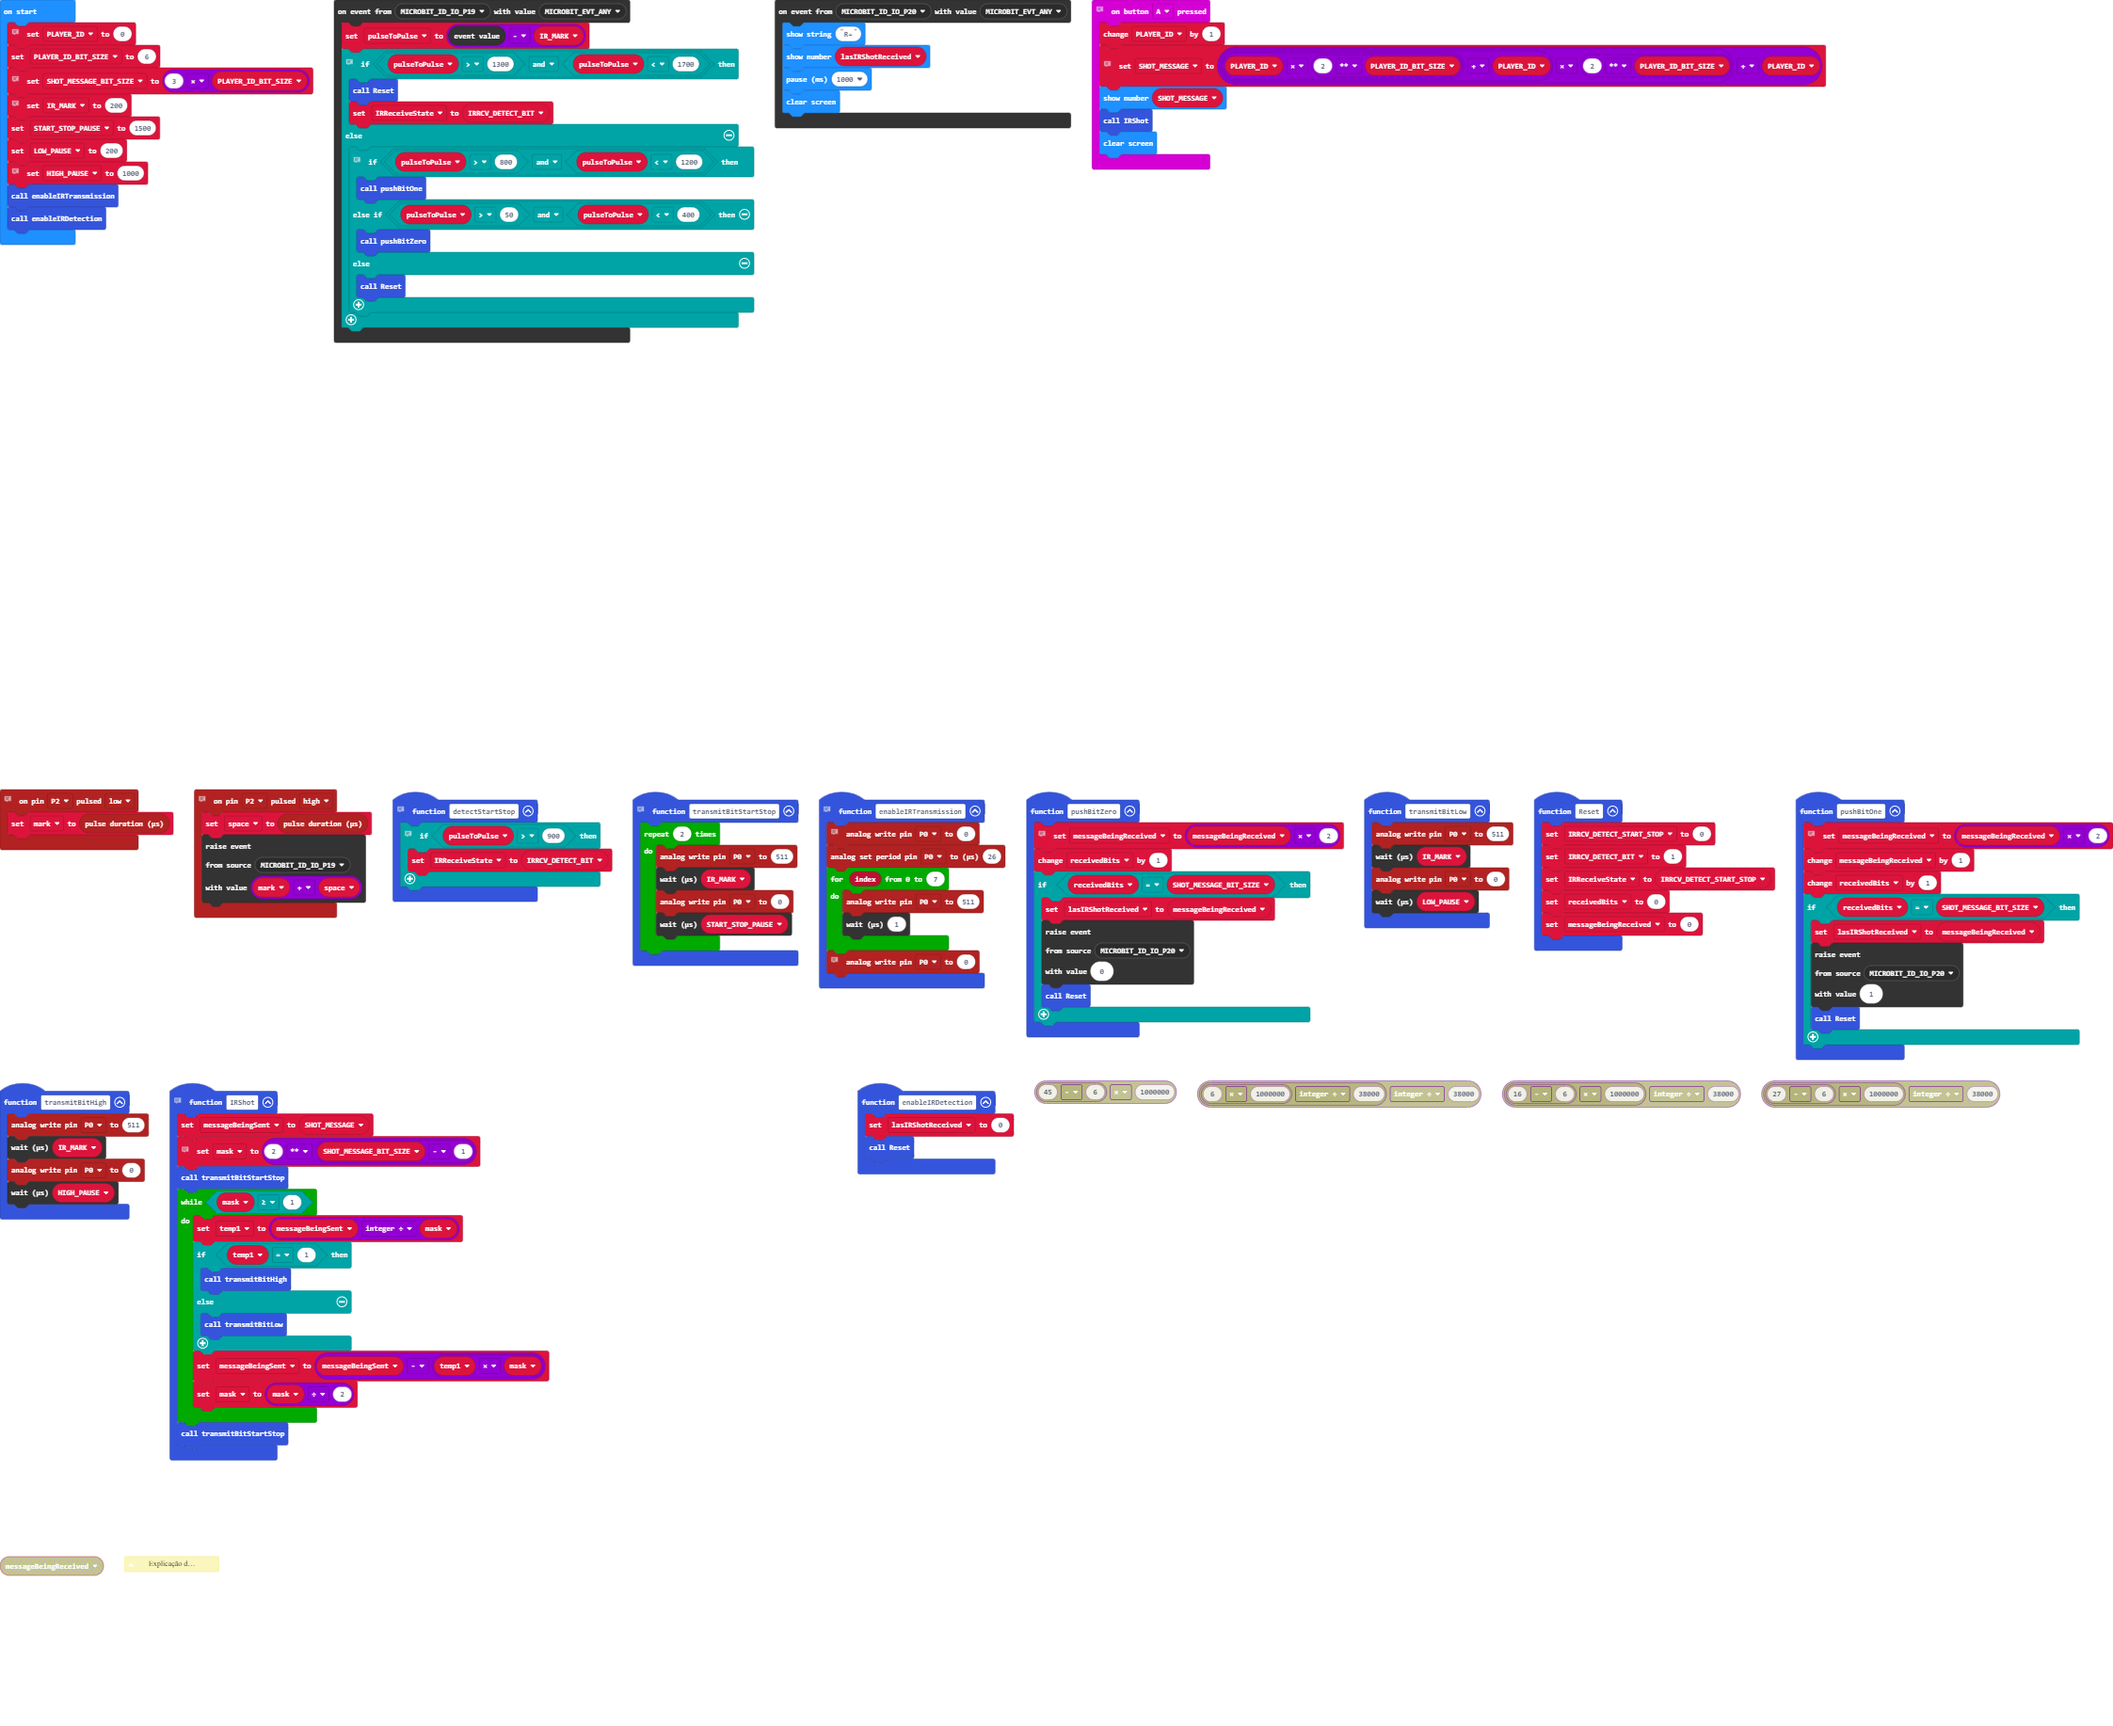
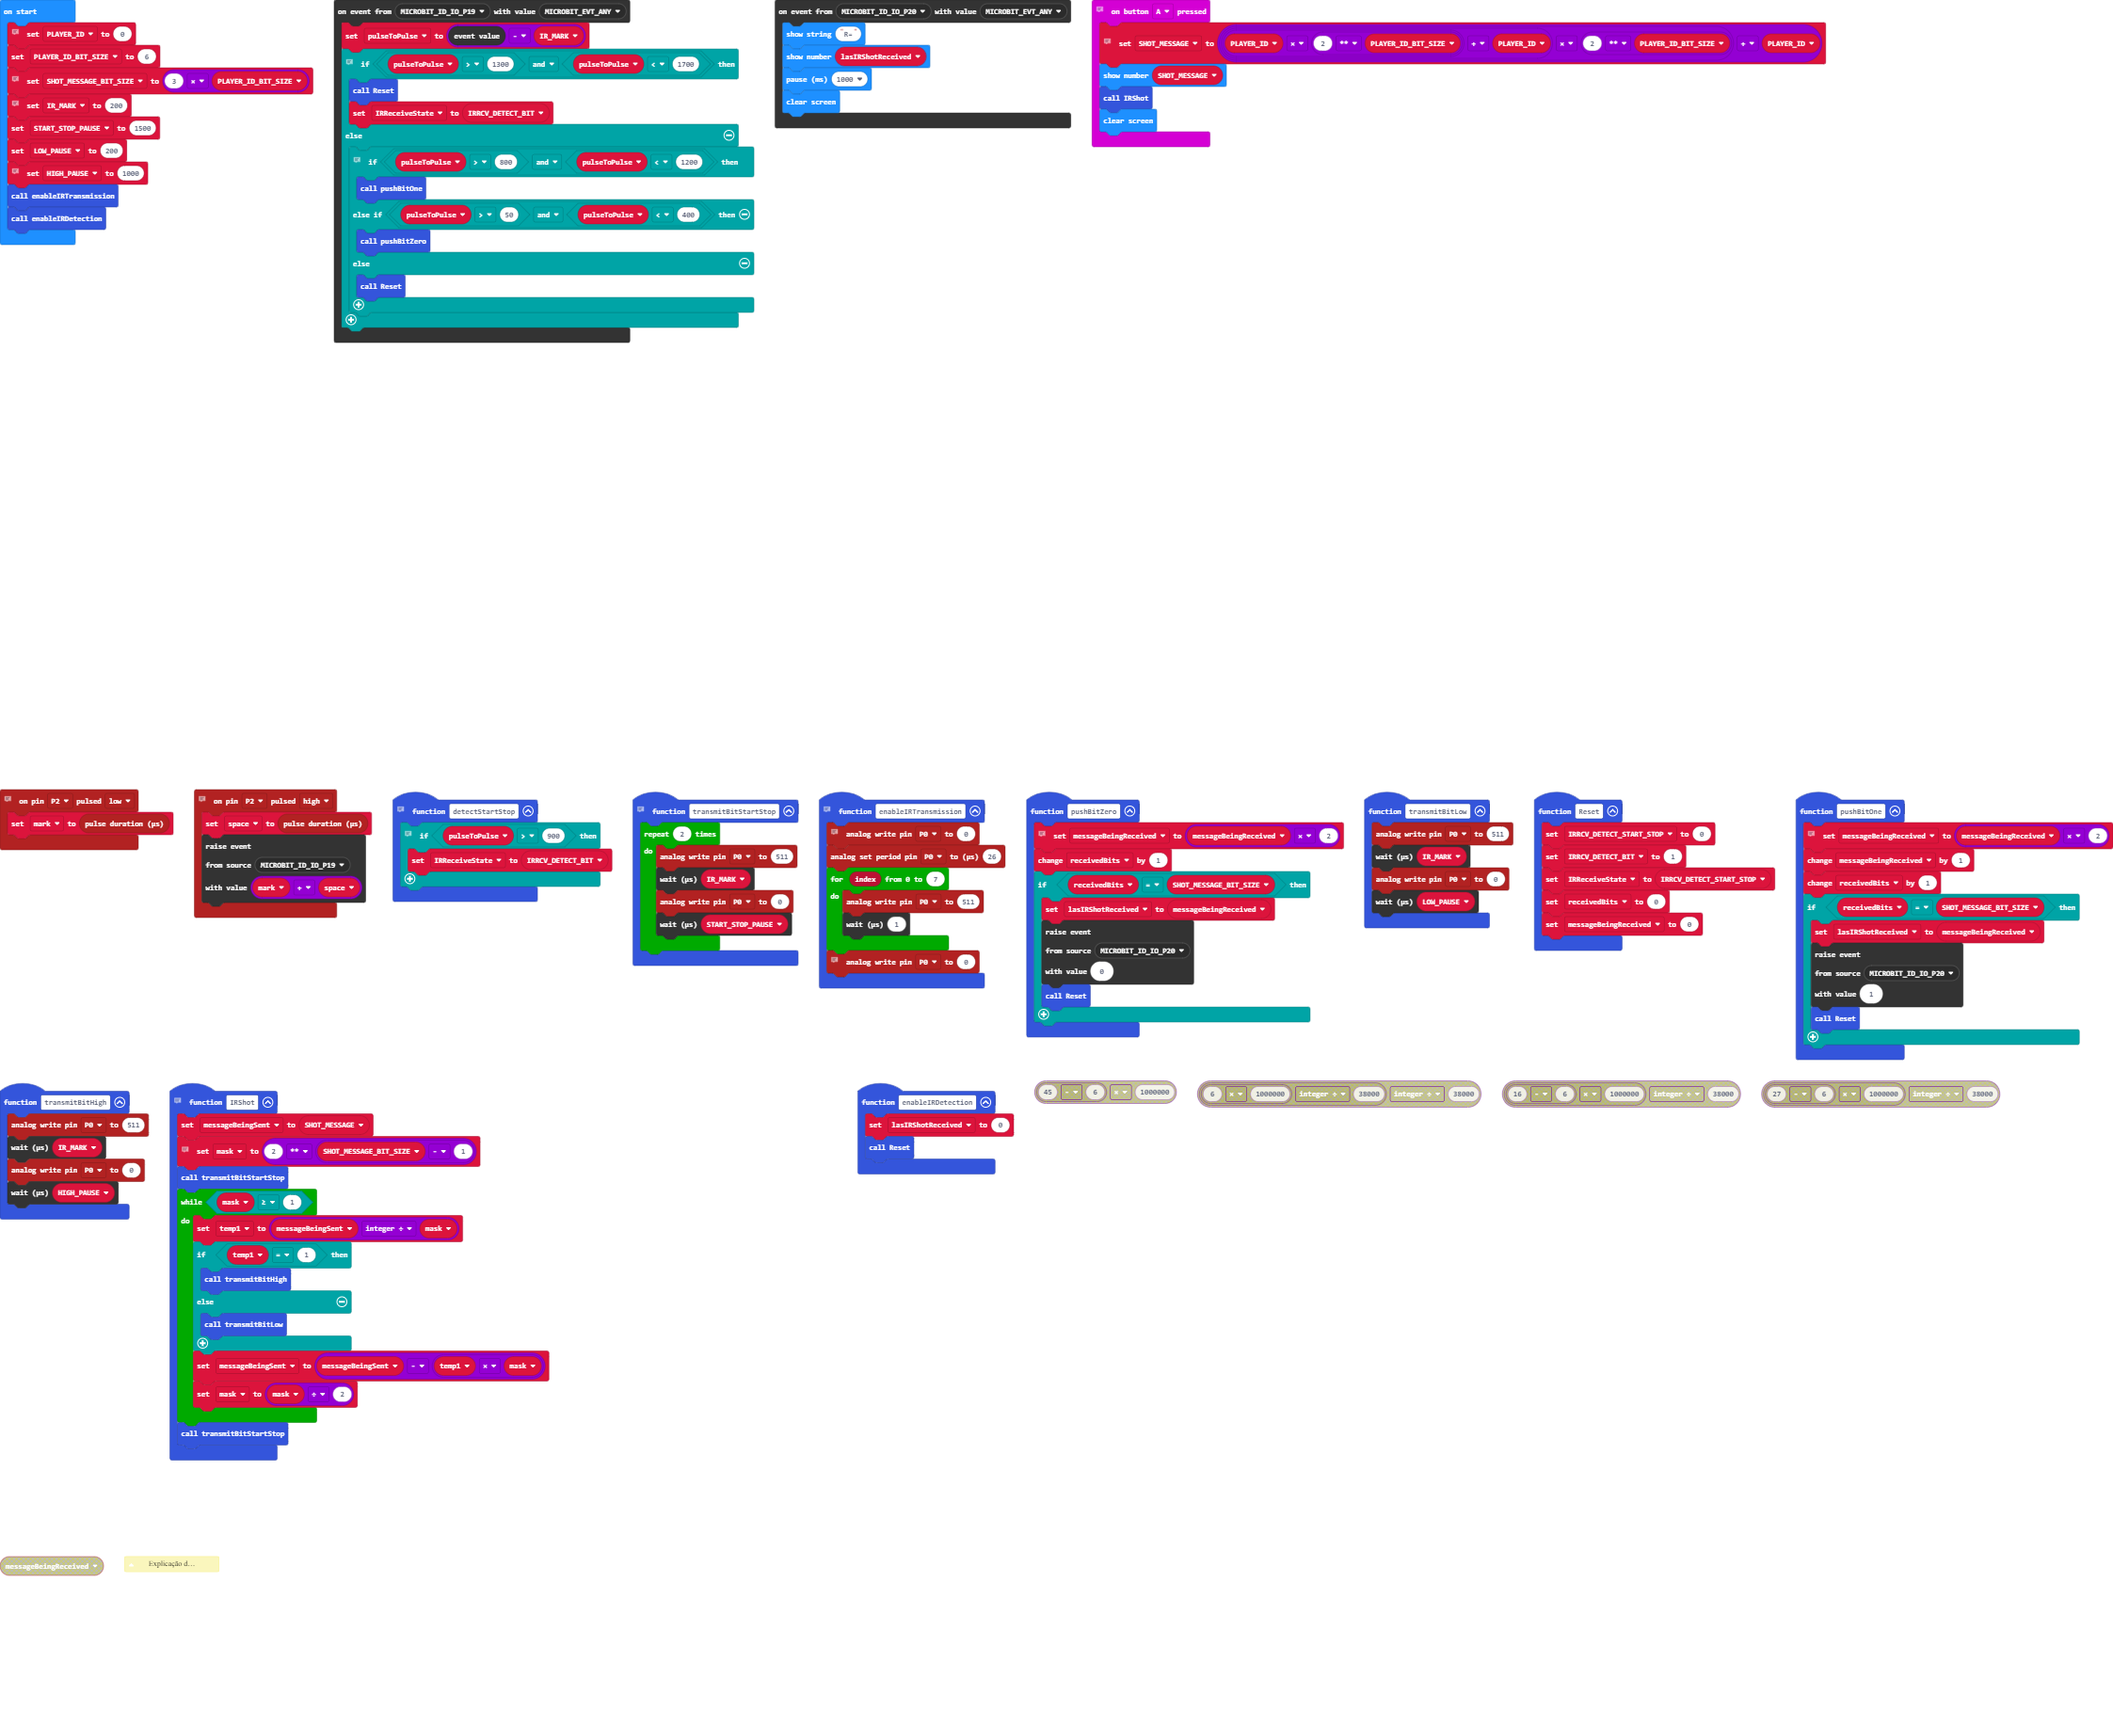
Update main.blocks, main.ts

Changed region(s): [[0.4989, 0.0, 0.8731, 0.1243]]

diff --git a/main.ts b/main.ts
@@ -139,7 +139,6 @@ function enableIRDetection () {
 // 
 // A+B: How many shots I already use
 input.onButtonPressed(Button.A, function () {
-    PLAYER_ID += 1
     // Three consecutive replicas of PLAYER_ID for redundancy.
     SHOT_MESSAGE = (PLAYER_ID * 2 ** PLAYER_ID_BIT_SIZE + PLAYER_ID) * 2 ** PLAYER_ID_BIT_SIZE + PLAYER_ID
     basic.showNumber(SHOT_MESSAGE)
